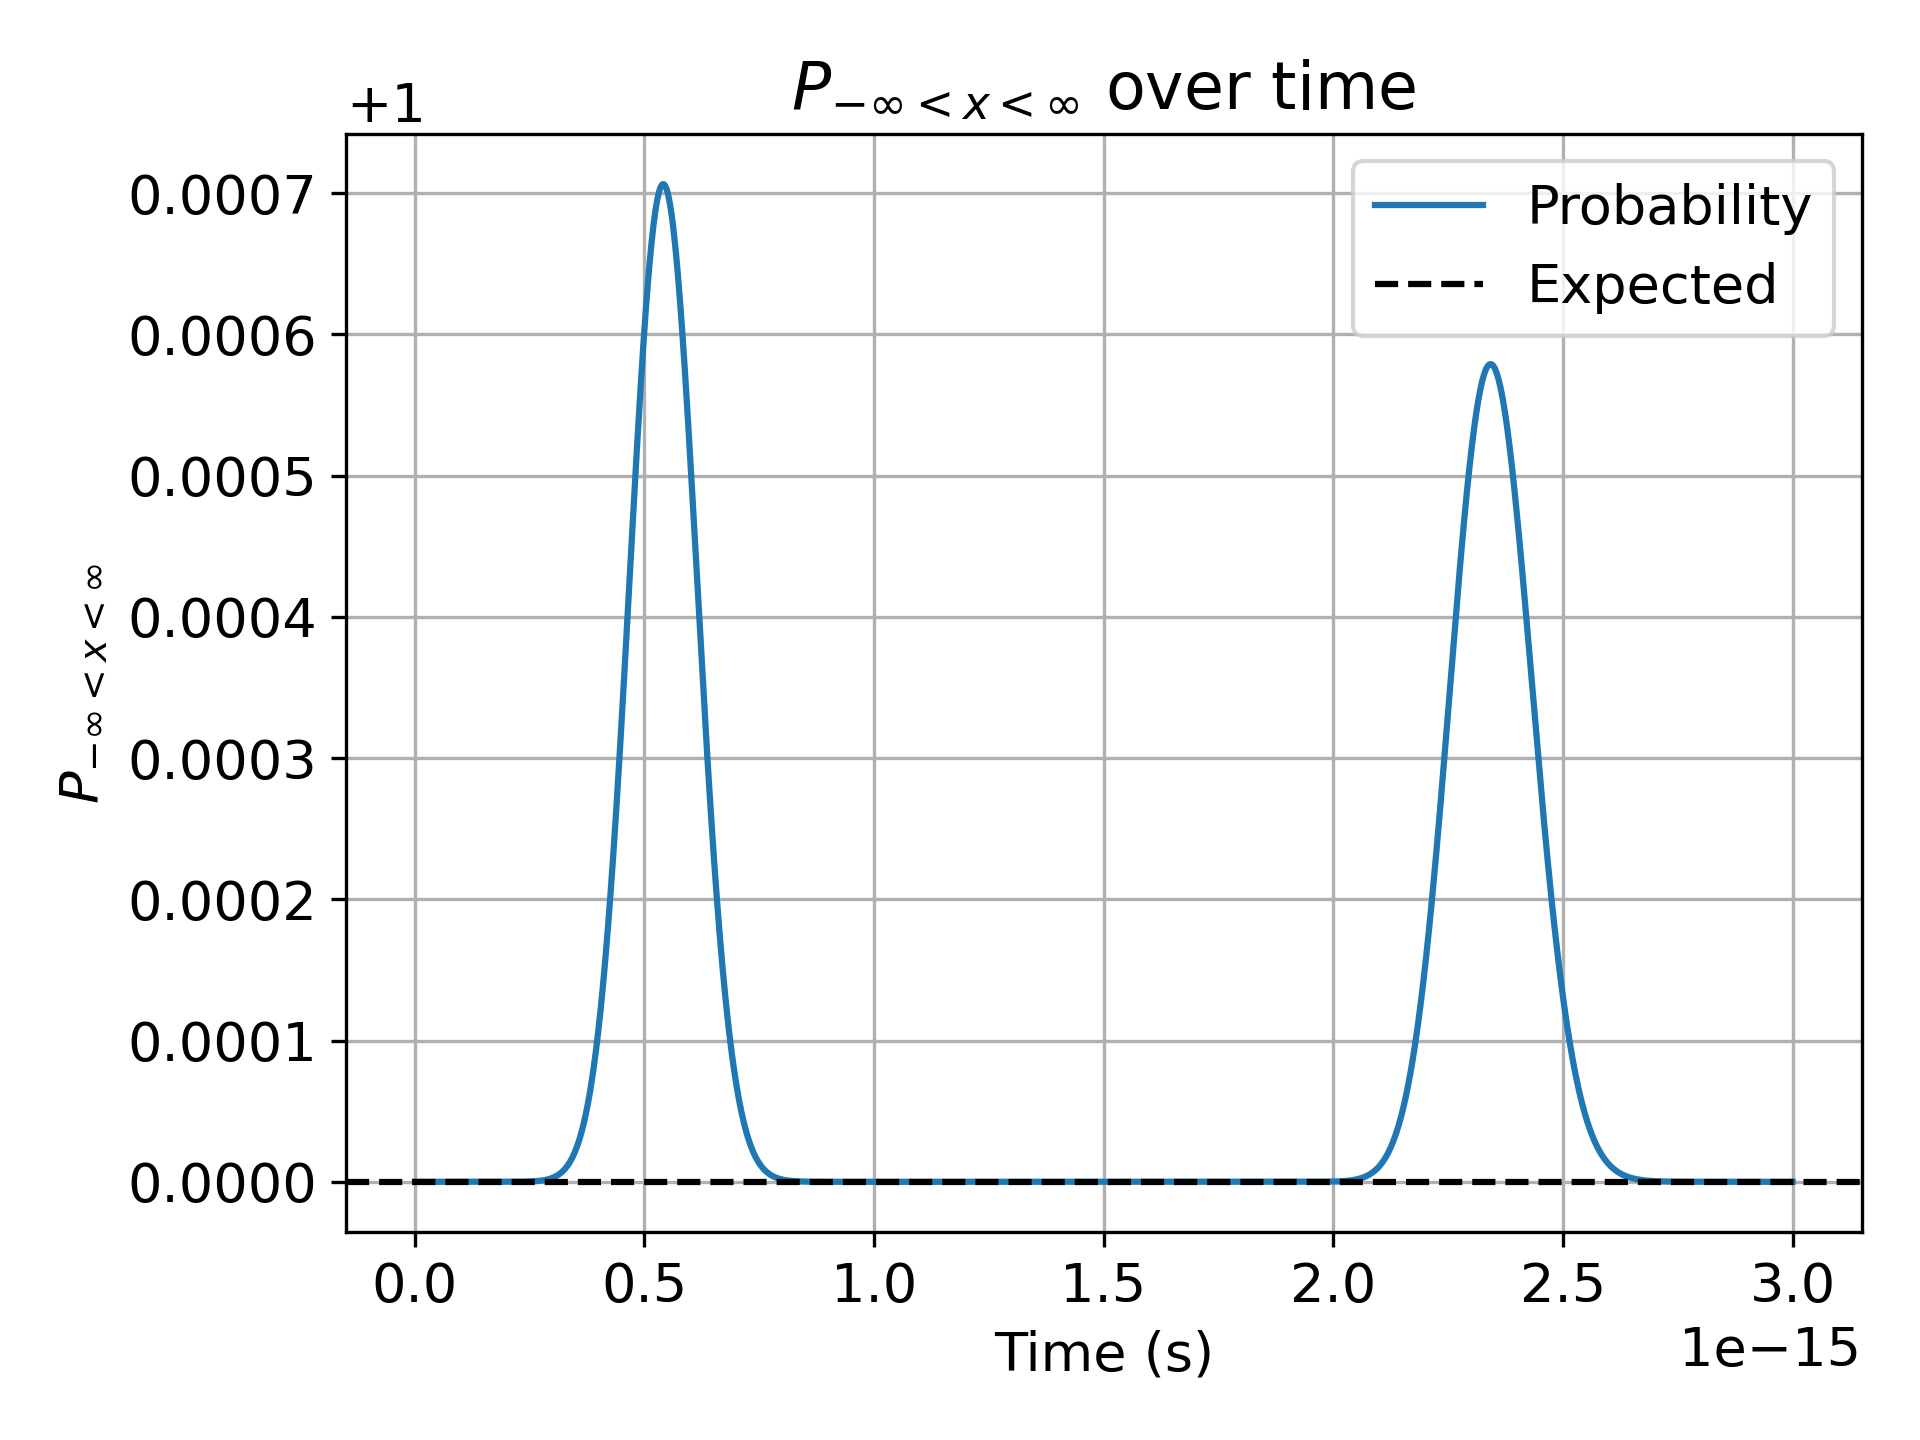
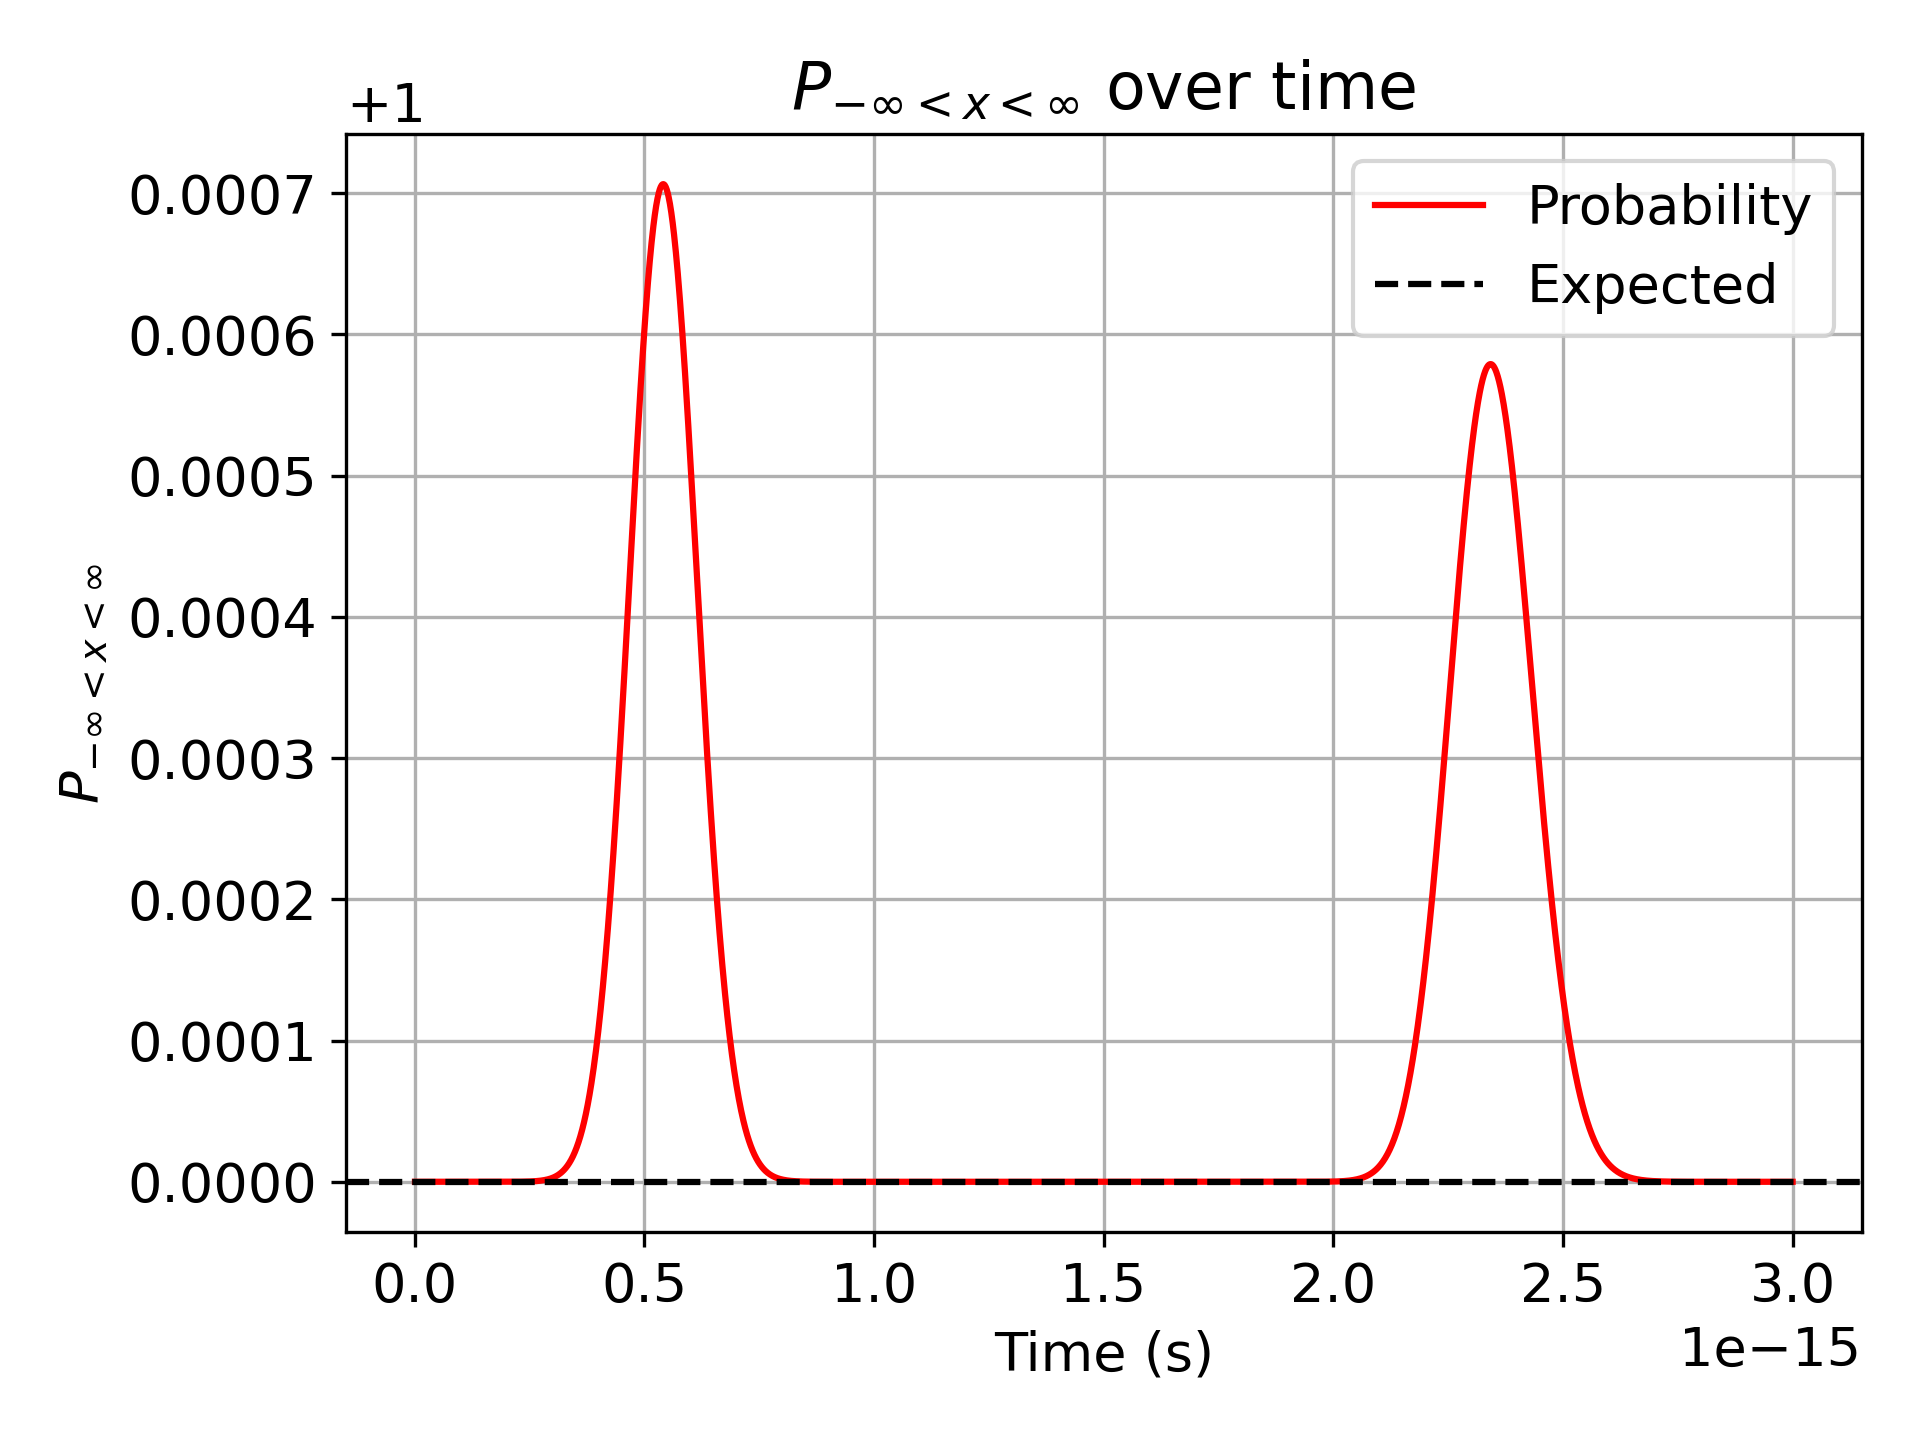
Added plot of energy over time and pseudocode and header comment finished.

diff --git a/Week09/Lab09_Q01.py b/Week09/Lab09_Q01.py
@@ -1,12 +1,28 @@
 """
 PHY 407: Computational Physics, Lab 09, Question 01
 Author: John Wood
-Date: November 23, 2022
+Date: November 28, 2022
 
-TODO
+In this script, we use the Crank-Nicholson algorithm to solve for the wavefunction of an electron in an infinite
+square well over time. Initial conditions are set, the psi is found over a set number of time steps, each separated
+by dt seconds. The real part of psi is plotted at some defined times. The expectation value of position is found and
+plotted against time. The normalization of psi is found and plotted over time. Energy is found over time. Both of
+these quantities should be conserved, and statistics to check this are printed.
 
 Outputs:
-    - TODO
+    - Lab09_Q01_b_9.png: psi at 0*T where T is the final time
+    - Lab09_Q01_b_0.25.png
+    - Lab09_Q01_b_0.5.png
+    - Lab09_Q01_b_0.75.png
+    - Lab09_Q01_b_1.png
+    - Lab09_Q01_b_trajectory.png: Expectation value of position over time
+
+    - Lab09_Q01_c_norm.png: Normalization of psi over time
+    - Lab09_Q01_c_energy.png: Energy of psi over time
+
+    - Printed: progress updates
+    - Printed: Greatest absolute error of normalization
+    - Printed: Range, std, and mean of energy
 
 """
 
@@ -21,9 +37,32 @@ Outputs:
 #
 # ------------ Question 1A ---------------------------------------------------------------------------------------------
 # From problem constants, calculate the discretized Hamiltonian
-# Use the Crank-Nicholson algorithm to step phi forward in time, saving results
+# Use the Crank-Nicholson algorithm to step phi forward in time, saving results:
+#   For each time step but the last:
+#       Find psi at next time step (only non-boundary points) using matrix multiplication from lab handout and LU
+#       decomposition
 #
+# ------------ Question 1B ---------------------------------------------------------------------------------------------
+# For each required psi plotting time:
+#   Plot the real part of psi at that time
 #
+# Define empty array for expectation value of position over time with length [time steps]
+# For each time step: populate array using Equation 4 from lab handout. Take only real part of integral result
+# Plot expectation value of position over time
+#
+# ------------ Question 1C ---------------------------------------------------------------------------------------------
+# Create empty `normalization over time' array with length [time steps]
+# For each time step: populate array using Equation 3 from lab handout (except the left hand side might not be 1).
+#   Take only real part of integral result
+# Print greatest difference of normalization from 1
+# Plot normalization over time
+#
+# Create empty array for energy over time with length [time steps]
+# For each time step:
+#   Populate array using Equation 4 from lab handout and Hamiltonian from Question 1A
+#   Note: H_D only works for non-boundary points. Operated psi's must be padded on both sides with a zero.
+# Print energy range, STD and mean
+# Plot energy over time
 #
 # ======================================================================================================================
 
@@ -174,7 +213,7 @@ for t in range(time_steps):
     normalization[t] = simpson(integrands, space_axis)
 
 plt.figure(figsize=fig_size, dpi=dpi)
-plt.plot(time_axis, normalization, label='Probability')
+plt.plot(time_axis, normalization, label='Probability', c='red')
 plt.axhline(1, c='black', ls='--', label='Expected')
 
 plt.title(r'$P_{-\infty<x<\infty}$ over time')
@@ -204,6 +243,19 @@ for t in range(time_steps):
 
 print('Energy calculated.')
 print()
+
+plt.figure(figsize=fig_size, dpi=dpi)
+plt.plot(time_axis, energy, c='green')
+
+plt.title('Energy over time')
+plt.xlabel('Time (s)')
+plt.ylabel(r'$E$ (J)')
+plt.grid()
+
+plt.tight_layout()
+plt.savefig('Lab09_Q01_c_energy.png')
+plt.close()
+
 e_range = np.amax(energy) - np.amin(energy)
 print(f'Range: {np.format_float_scientific(e_range, 3)} J')
 print(f'STD (ddof=1): {np.format_float_scientific(np.std(energy, ddof=1), 3)} J')
